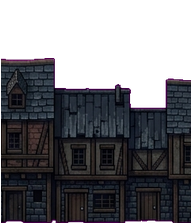
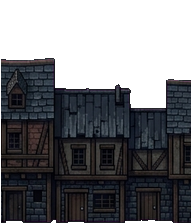
art(map): AI-20 ART-21 tenement_row key fringe cleared, watch torch flame to amber; AI-20 status row
Claude-Session: https://claude.ai/code/session_01JD4WxtEbqoZETYrujpirxJ

diff --git a/games/emberwake/docs/specs/ART_UI_REQUESTS.md b/games/emberwake/docs/specs/ART_UI_REQUESTS.md
@@ -22,7 +22,7 @@ Placeholders (decision "Placeholder-first assets"): when Build lands a feature w
 | AI-17 | Hub bunk states for the hub layout (PR #66): empty rolled mattress, made bed with keepsake post and name plate, kit packed at the foot (active member), draped cloth (member in the crypts), a lit candle (talk waiting); a resting pose on a bunk and seated idle poses at the social tables; a hub spot list (one table seat per active member, one per bunk). | `PR7-13` (`BUNKS1`, BK2, BK8, BK9). | `games/emberwake/assets/` hub props and the hub map; placeholders landed by `PR7-13` (`FB-304`, 2026-11-18) at `assets/props/sunk_ward/kiln_bunk_{empty,benched,active,crypt}/v0.png` (`80x80`), `assets/ui/markers/bunk_candle.png` (`64x80`, must read apart from the candles painted in `kiln_bunk`), `assets/ui/markers/bunk_talk.png` (`32x32`); review shots `/mnt/project-files/pr7-13/` | done (Art/UI 2026-11-18): the four `kiln_bunk_*` states cut from the hub design reference (`_ce4b19f9`, Tushar: the queue's bunks were bad; `art_src/prompts/hub_bunk_states.py`); `bunk_candle` (tall iron pricket) and `bunk_talk` cut from queue sheet `props_hub_bunk_states_2` (`art_src/prompts/cut_queue_markers.py`). Resting and seated poses wait for Flow |
 | AI-18 | Transition art and audio: an ash-wipe overlay (frames or a mask), the battle objective banner and the Victory banner in the locked frame style, a short combat sting and a victory stinger. | `PR7-14` (`TRANSITIONS1`) | `games/emberwake/assets/ui/` and `assets/audio/` (final names from `PR7-14`) | open (Design 2026-11-17) |
 | AI-19 | Service badge for "Facilities" (hub upgrades): `32 x 32` RGBA, matching the existing shop / recipe / recruit badges, I2 slate tile with one painted glyph (style bible; for example a hammer over a timber frame). Replace the placeholder (a copy of `recipe.png`) in place. | `PR6-8`, `FB-299` (Build missing-asset request 2026-11-18) | `kits/rpg/assets/ui/services/facility.png` | done (Art/UI 2026-11-18): the painted take from image_pipeline `service_facility_1`, cut to 32 x 32 (`art_src/prompts/cut_queue_markers.py`) |
-| AI-20 | Art fixes from the agent playtest (2026-11-18, `/mnt/project-files/playtests/2026-11-18-art-style/REPORT.md`, shots beside it): `ART-12` battle skill icons re-cut on the I2 slate tile (intent as a thin bottom line); `ART-13` `common_stage` stone, slate and plank floor tiles darkened to the ground rule (mean 24-40, spread at most 14; measured 75-95); `ART-14` canal water near-black green-grey; `ART-16` battle backdrop strip; `ART-19` hub NPC palettes for Sabina, Widow Varka and Berek (no white robes), POI glyphs, amber exit markers, token scale against props; `ART-20` floor-type edge tiles or contact line; `ART-21` Alleyway Junction 7 buildings (no magenta fringe, nearest-neighbour, one scale, front-on, textured walls, amber torches); `ART-09` purple in the procedural story cards (notes for the replacements). `ART-15` is `AO-11`. | Style lock; Build's `PR7-36` covers the UI-side notes | `kits/rpg/assets/tilesets/`, `games/emberwake/assets/` | open |
+| AI-20 | Art fixes from the agent playtest (2026-11-18, `/mnt/project-files/playtests/2026-11-18-art-style/REPORT.md`, shots beside it): `ART-12` battle skill icons re-cut on the I2 slate tile (intent as a thin bottom line); `ART-13` `common_stage` stone, slate and plank floor tiles darkened to the ground rule (mean 24-40, spread at most 14; measured 75-95); `ART-14` canal water near-black green-grey; `ART-16` battle backdrop strip; `ART-19` hub NPC palettes for Sabina, Widow Varka and Berek (no white robes), POI glyphs, amber exit markers, token scale against props; `ART-20` floor-type edge tiles or contact line; `ART-21` Alleyway Junction 7 buildings (no magenta fringe, nearest-neighbour, one scale, front-on, textured walls, amber torches); `ART-09` purple in the procedural story cards (notes for the replacements). `ART-15` is `AO-11`. | Style lock; Build's `PR7-36` covers the UI-side notes | `kits/rpg/assets/tilesets/`, `games/emberwake/assets/` | in progress (Art/UI 2026-11-18): done: `ART-12` (48 I1 icons re-cut on the slate tile, `art_src/style/i2_recut.py`; the intent bottom line is UI code), `ART-13`/`ART-14` (game-layer copies of the `common_stage` ground and water tiles, `art_src/style/stage_ground.py`), `ART-19` palette files `priest/base/palettes/{sabina_kress,widow_varka}.json`, `warrior/base/palettes/berek_dorn.json` (data must name them; markers and token scale are UI code), `ART-21` part (tenement_row key fringe cleared, torch flame amber). Queued on image_pipeline: `ART-16` seven battle strips, `ART-09` the hearth card, `ART-21` a two-house row at the house scale. `ART-20` is region-ground composer code (no edge art hook), for Build |
 
 ## Outbox (for Design)
 
